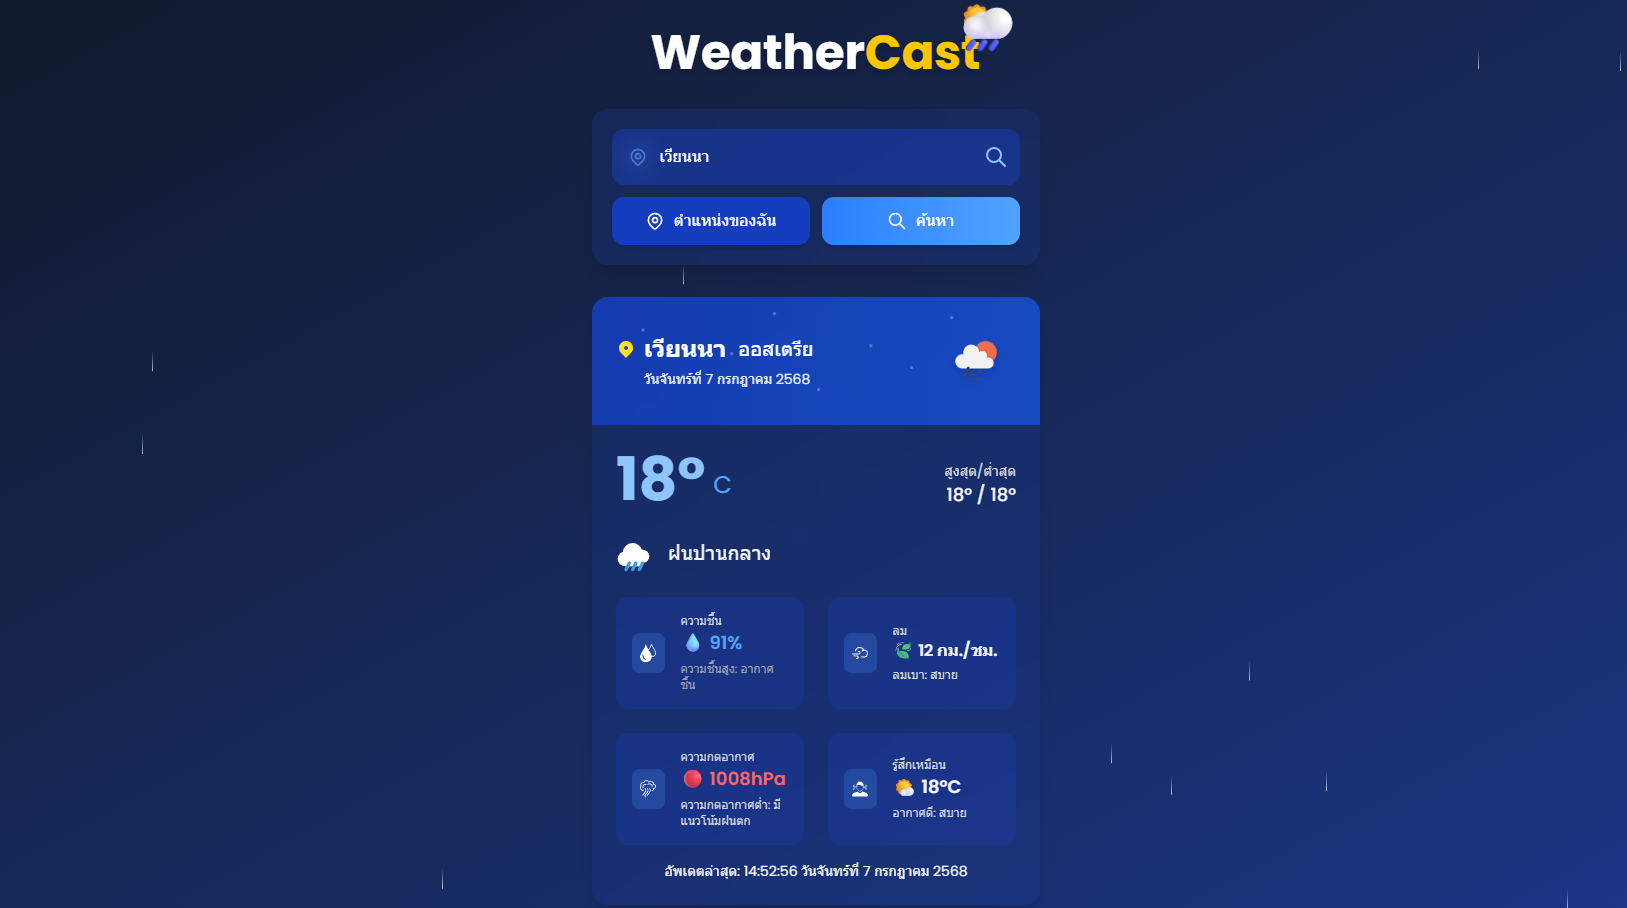
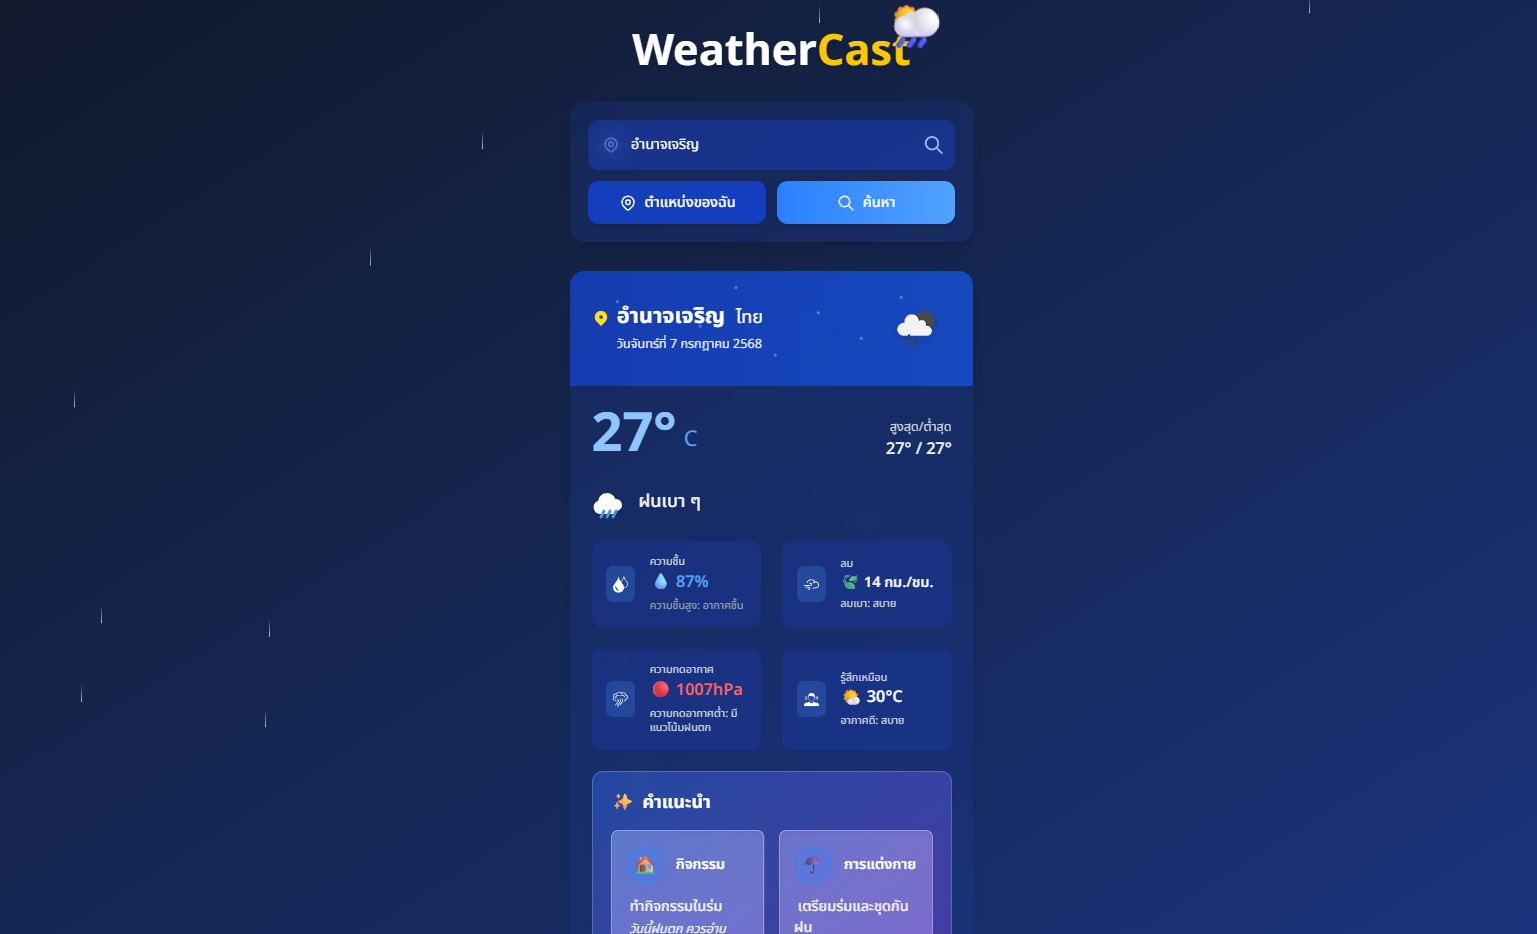
update all file

Changed region(s): [[0.3435, 0.1233, 0.6558, 0.5551], [0.3748, 0.5859, 0.6246, 1.0], [0.3748, 0.0, 0.6246, 0.0925]]

diff --git a/composables/useLocations.ts b/composables/useLocations.ts
@@ -73,3 +73,4 @@ export default {
     'มอริเชียส'
   ]
 }
+

diff --git a/README.md b/README.md
@@ -2,18 +2,20 @@
 
 ![WeatherCast App Screenshot](/public/weathercast.png)
 
-WeatherCast is a modern weather forecasting application built with Nuxt.js. It provides users with real-time weather information, forecasts, and weather-related data in a clean, intuitive interface.
+WeatherCast เป็นแอปพลิเคชันพยากรณ์อากาศสมัยใหม่ที่สร้างด้วย Nuxt.js โดยให้ข้อมูลสภาพอากาศแบบเรียลไทม์ การพยากรณ์ และข้อมูลที่เกี่ยวข้องกับสภาพอากาศแก่ผู้ใช้ ผ่านอินเทอร์เฟซที่สะอาดและใช้งานง่าย
 
 ## Features
 
-- Real-time weather data display
-- Location-based weather forecasting
-- Temperature, humidity, wind speed, and precipitation information
-- Responsive design for all devices
+- แสดงข้อมูลสภาพอากาศแบบเรียลไทม์
+- ข้อมูลพยากรณ์อากาศตามสถานที่
+- ข้อมูลอุณหภูมิ, ความชื้น, ความเร็วของลม, และความกดอากาศ
+- แสดงสถานะตำแหน่งของคุณ
+- มีคำแนะนำเกี่ยวกับสภาพอากาศ กิจกรรม และการแต่งกาย
+- ออกแบบที่ตอบสนองสำหรับอุปกรณ์ทุกประเภท
 
 ## Setup
 
-Make sure to install dependencies:
+ติดตั้งข้อมูลที่จำเป็น:
 
 ```bash
 # npm
@@ -31,7 +33,7 @@ bun install
 
 ## Development Server
 
-Start the development server on `http://localhost:3000`:
+เริ่มต้นเซิร์ฟเวอร์พัฒนาที่ `http://localhost:3000`:
 
 ```bash
 # npm
@@ -45,40 +47,3 @@ yarn dev
 
 # bun
 bun run dev
-```
-
-## Production
-
-Build the application for production:
-
-```bash
-# npm
-npm run build
-
-# pnpm
-pnpm build
-
-# yarn
-yarn build
-
-# bun
-bun run build
-```
-
-Locally preview production build:
-
-```bash
-# npm
-npm run preview
-
-# pnpm
-pnpm preview
-
-# yarn
-yarn preview
-
-# bun
-bun run preview
-```
-
-Check out the [deployment documentation](https://nuxt.com/docs/getting-started/deployment) for more information.
